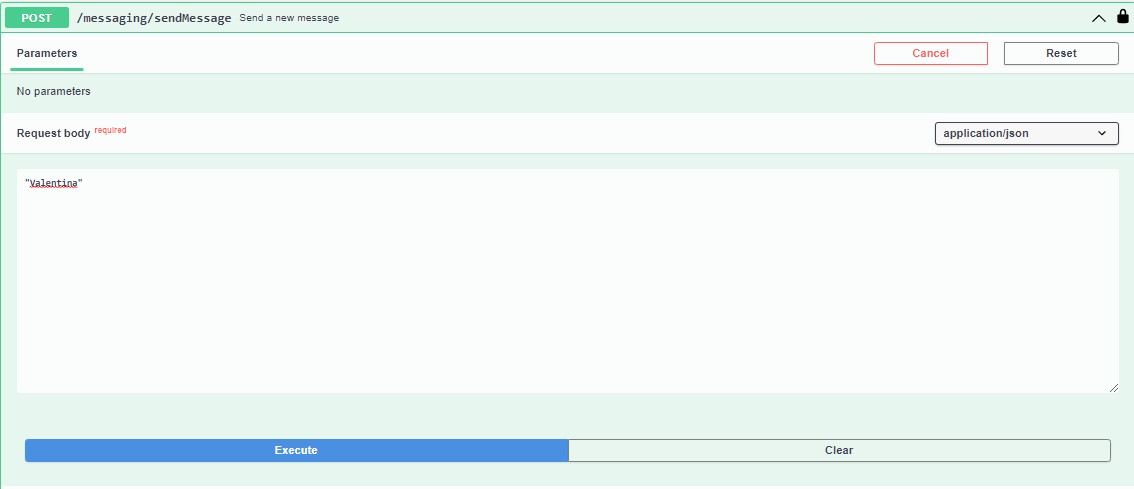
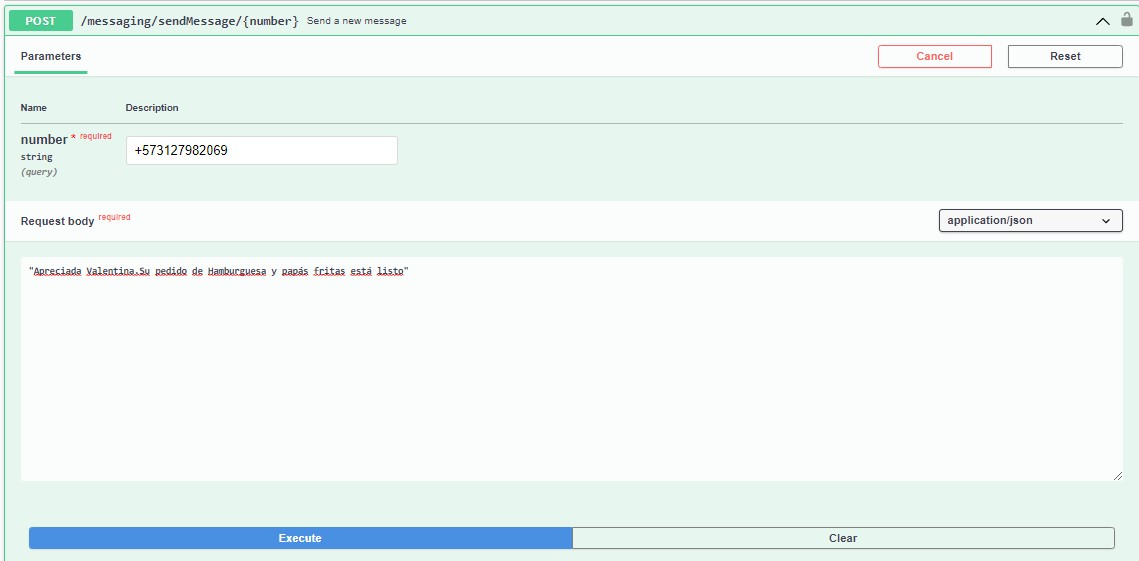
@PathVariable and Security
Controller variable name changed and authorized routes added in security

diff --git a/src/main/java/com/pragma/powerup/messagingmicroservice/configuration/security/Interceptor.java b/src/main/java/com/pragma/powerup/messagingmicroservice/configuration/security/Interceptor.java
@@ -23,17 +23,9 @@ public class Interceptor implements HandlerInterceptor {
     @Setter
     private static Long idUser;
 
-    @Value("${my.variables.admin}")
-    String admin;
-
-    @Value("${my.variables.owner}")
-    String owner;
 
     @Value("${my.variables.employee}")
     String employee;
-
-    @Value("${my.variables.client}")
-    String client;
 
     @Override
     public boolean preHandle(HttpServletRequest request, HttpServletResponse response, Object handler) throws IOException {
@@ -48,19 +40,7 @@ public class Interceptor implements HandlerInterceptor {
         String roleUser = roles.get(0);
 
 
-        if (admin.equals(roleUser) && isAllowedAdminEndpoint(request.getRequestURI())) {
-            return true;
-        }
-
-        if (owner.equals(roleUser) && isAllowedOwnerEndpoint(request.getRequestURI())) {
-            return true;
-        }
-
         if (employee.equals(roleUser) && isAllowedEmployeeEndpoint(request.getRequestURI())) {
-            return true;
-        }
-
-        if (client.equals(roleUser) && isAllowedClientEndpoint(request.getRequestURI())) {
             return true;
         }
 
@@ -68,66 +48,14 @@ public class Interceptor implements HandlerInterceptor {
         return false;
     }
 
-     private boolean isAllowedOwnerEndpoint(String requestURI) {
 
-        if (requestURI.startsWith("/category/")) {
-            return true;
-        }
-
-        if (requestURI.startsWith("/dish/createDish")) {
-            return true;
-        }
-
-        if (requestURI.startsWith("/dish/updateDish/")) {
-             return true;
-        }
-
-         if (requestURI.startsWith("/dish/enableDisableDish/")) {
-             return true;
-         }
-
-        if (requestURI.startsWith("/restaurant/employee")) {
-             return true;
-        }
-        return false;
-    }
-
-    private boolean isAllowedAdminEndpoint(String requestURI) {
-        return requestURI.startsWith("/restaurant/createRestaurant");
-    }
 
     private boolean isAllowedEmployeeEndpoint(String requestURI) {
-        if(requestURI.startsWith("/order/orders")) {
-            return true;
-        }
-        if(requestURI.startsWith("/order/assignOrder/")) {
+        if(requestURI.startsWith("/messaging/sendMessage/")) {
             return true;
         }
         return false;
     }
-
-    private boolean isAllowedClientEndpoint(String requestURI) {
-
-        if(requestURI.startsWith("/restaurant/allRestaurants")){
-            return true;
-        }
-
-        if(requestURI.startsWith("/dish/dishes")){
-            return true;
-        }
-
-        if(requestURI.startsWith("/order/createOrder")){
-            return true;
-        }
-
-        if(requestURI.startsWith("/order/orderDish")){
-            return true;
-        }
-        return false;
-
-
-    }
-
 
     public static String getToken(){
         return token;

diff --git a/src/main/java/com/pragma/powerup/messagingmicroservice/adapters/driving/http/controller/MessagingRestController.java b/src/main/java/com/pragma/powerup/messagingmicroservice/adapters/driving/http/controller/MessagingRestController.java
@@ -34,7 +34,7 @@ public class MessagingRestController {
                             content = @Content(mediaType = "application/json", schema = @Schema(ref = "#/components/schemas/Error"))),
             })
     @PostMapping("/sendMessage/{number}")
-    public ResponseEntity<Map<String, String>> sendMessage(@RequestParam String number, @Valid @RequestBody String message ){
+    public ResponseEntity<Map<String, String>> sendMessage(@PathVariable String number, @Valid @RequestBody String message ){
         messagingHandler.sendMessage(message,number);
         return ResponseEntity.status(HttpStatus.CREATED)
                 .body(Collections.singletonMap(Constants.RESPONSE_MESSAGE_KEY, Constants.MESSAGE_SEND));

diff --git a/src/main/java/com/pragma/powerup/messagingmicroservice/configuration/security/WebConfig.java b/src/main/java/com/pragma/powerup/messagingmicroservice/configuration/security/WebConfig.java
@@ -19,6 +19,6 @@ public class WebConfig implements WebMvcConfigurer {
     public void addInterceptors(InterceptorRegistry registry) {
 
         registry.addInterceptor(interceptor)
-                .addPathPatterns("/restaurant/**","/category/**","/dish/**","/order/**");
+                .addPathPatterns("/messaging/**");
     }
 }
